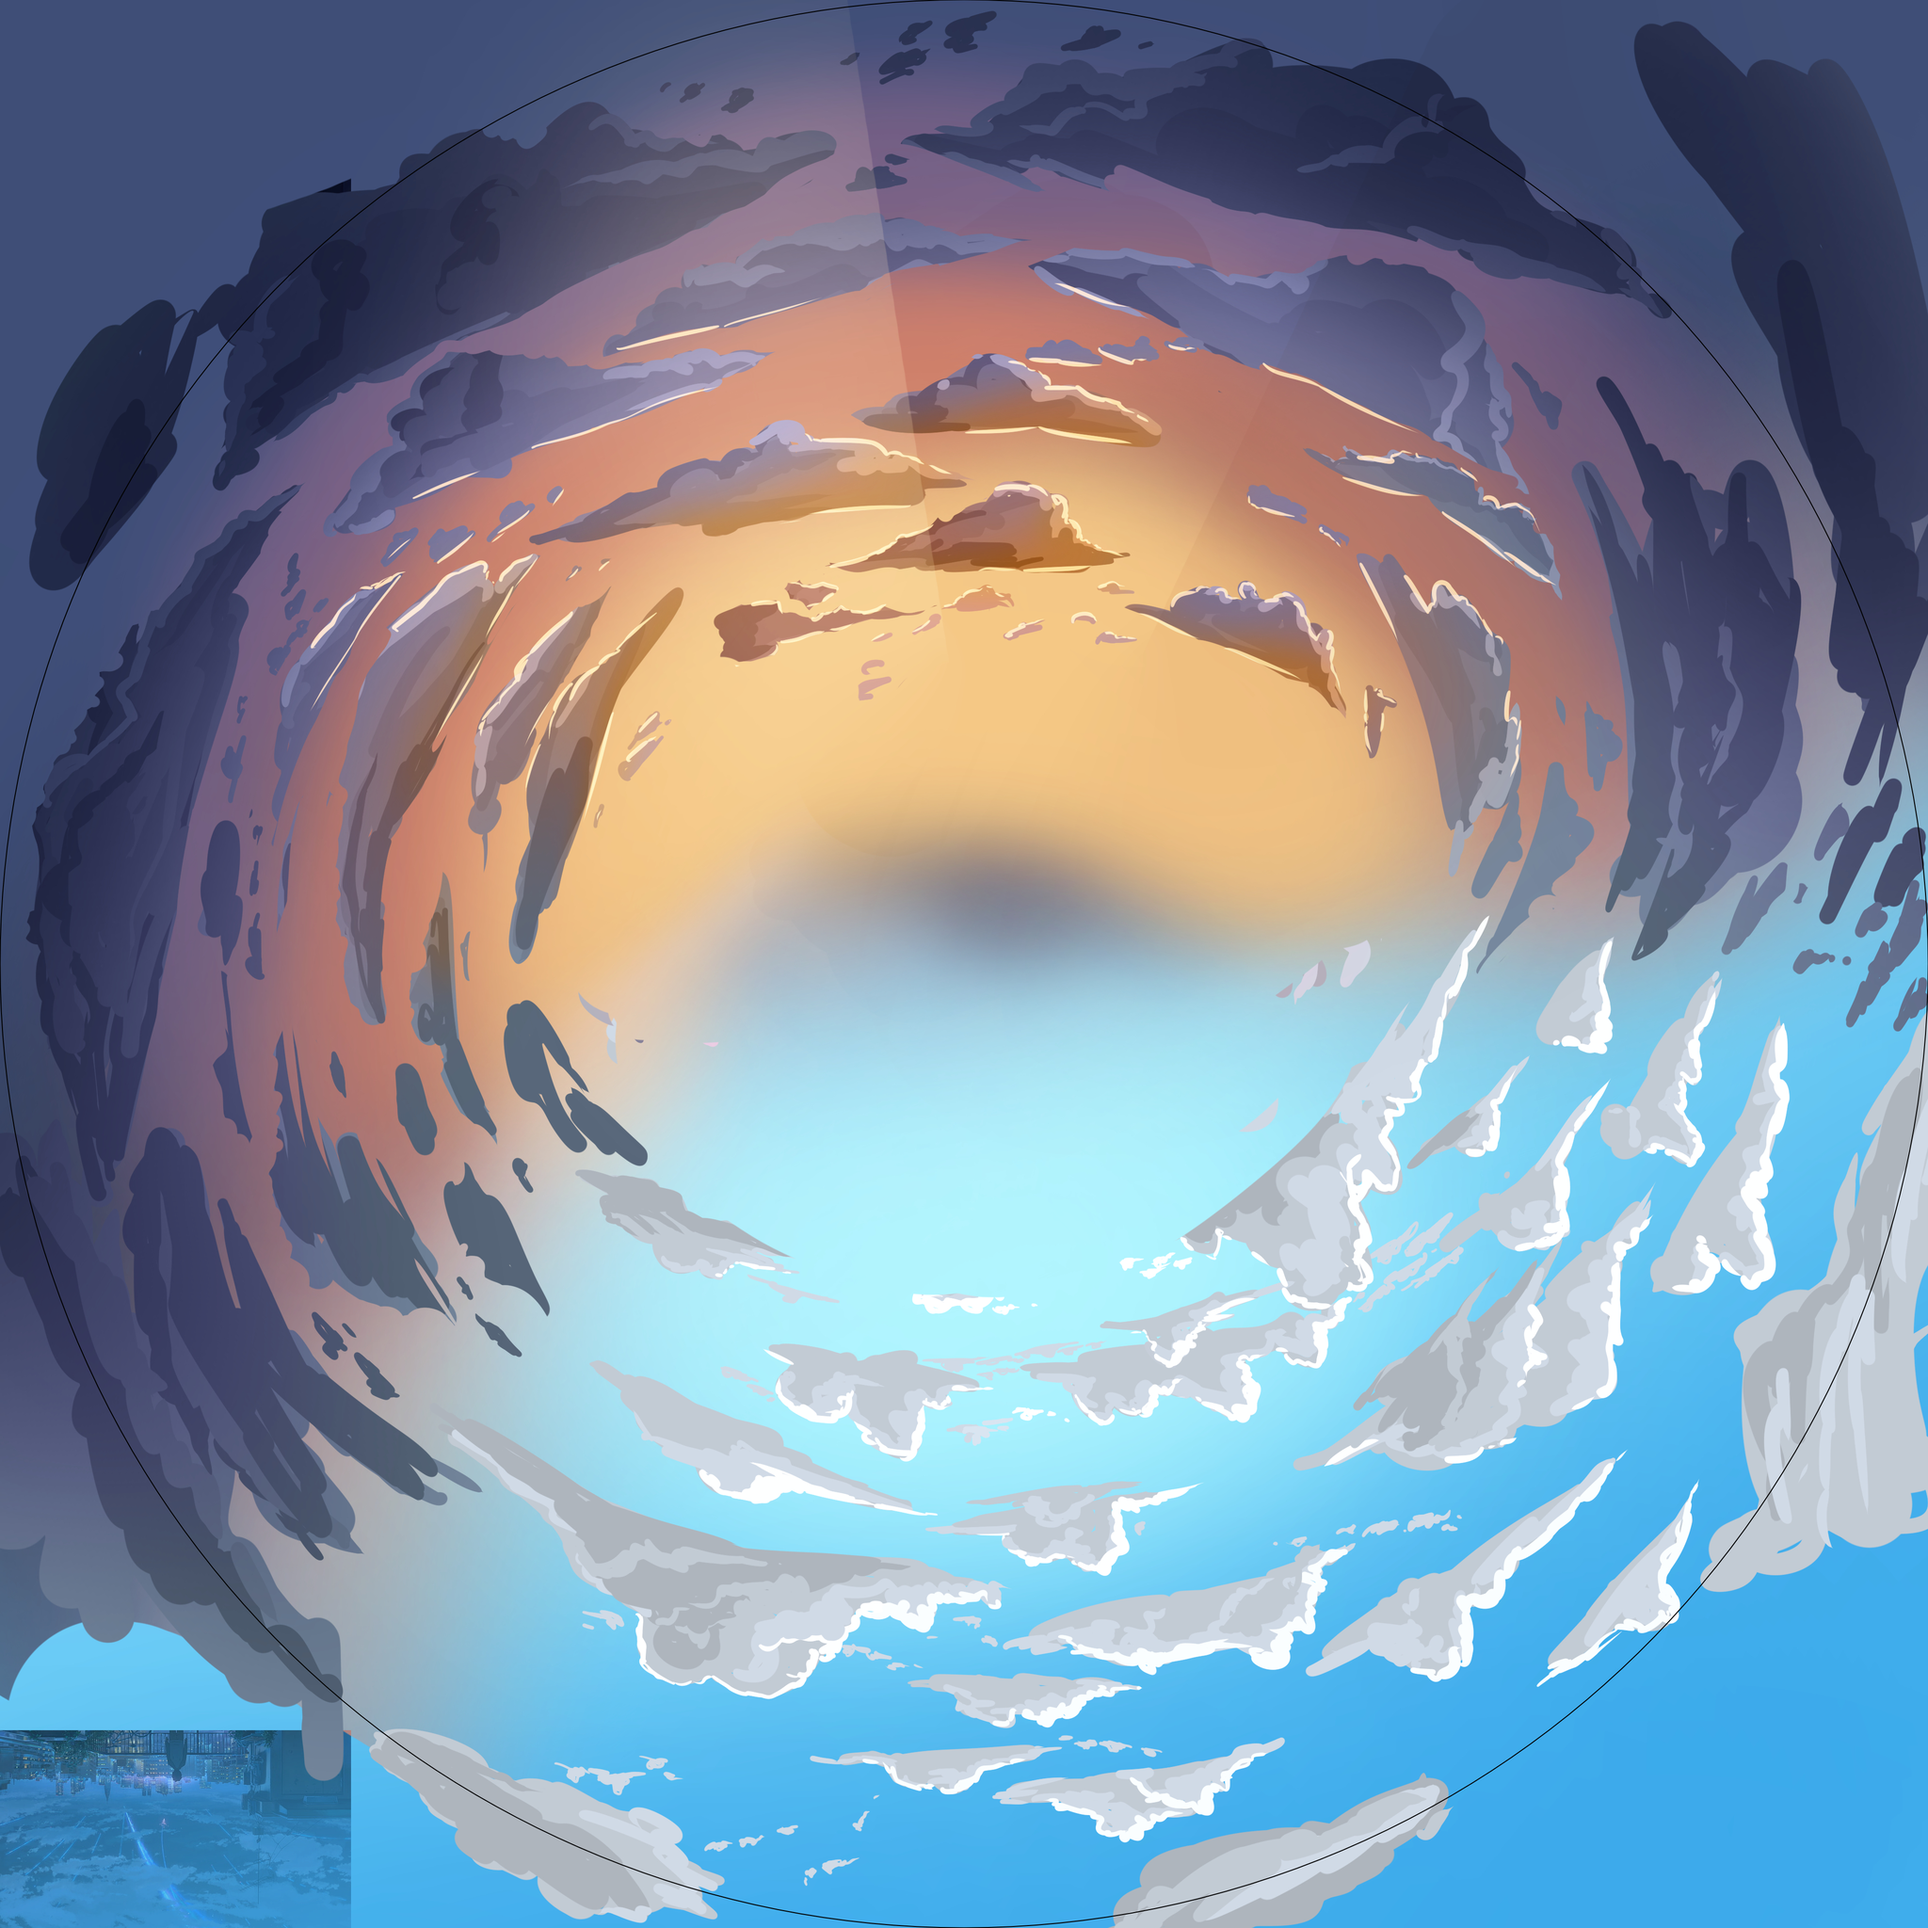
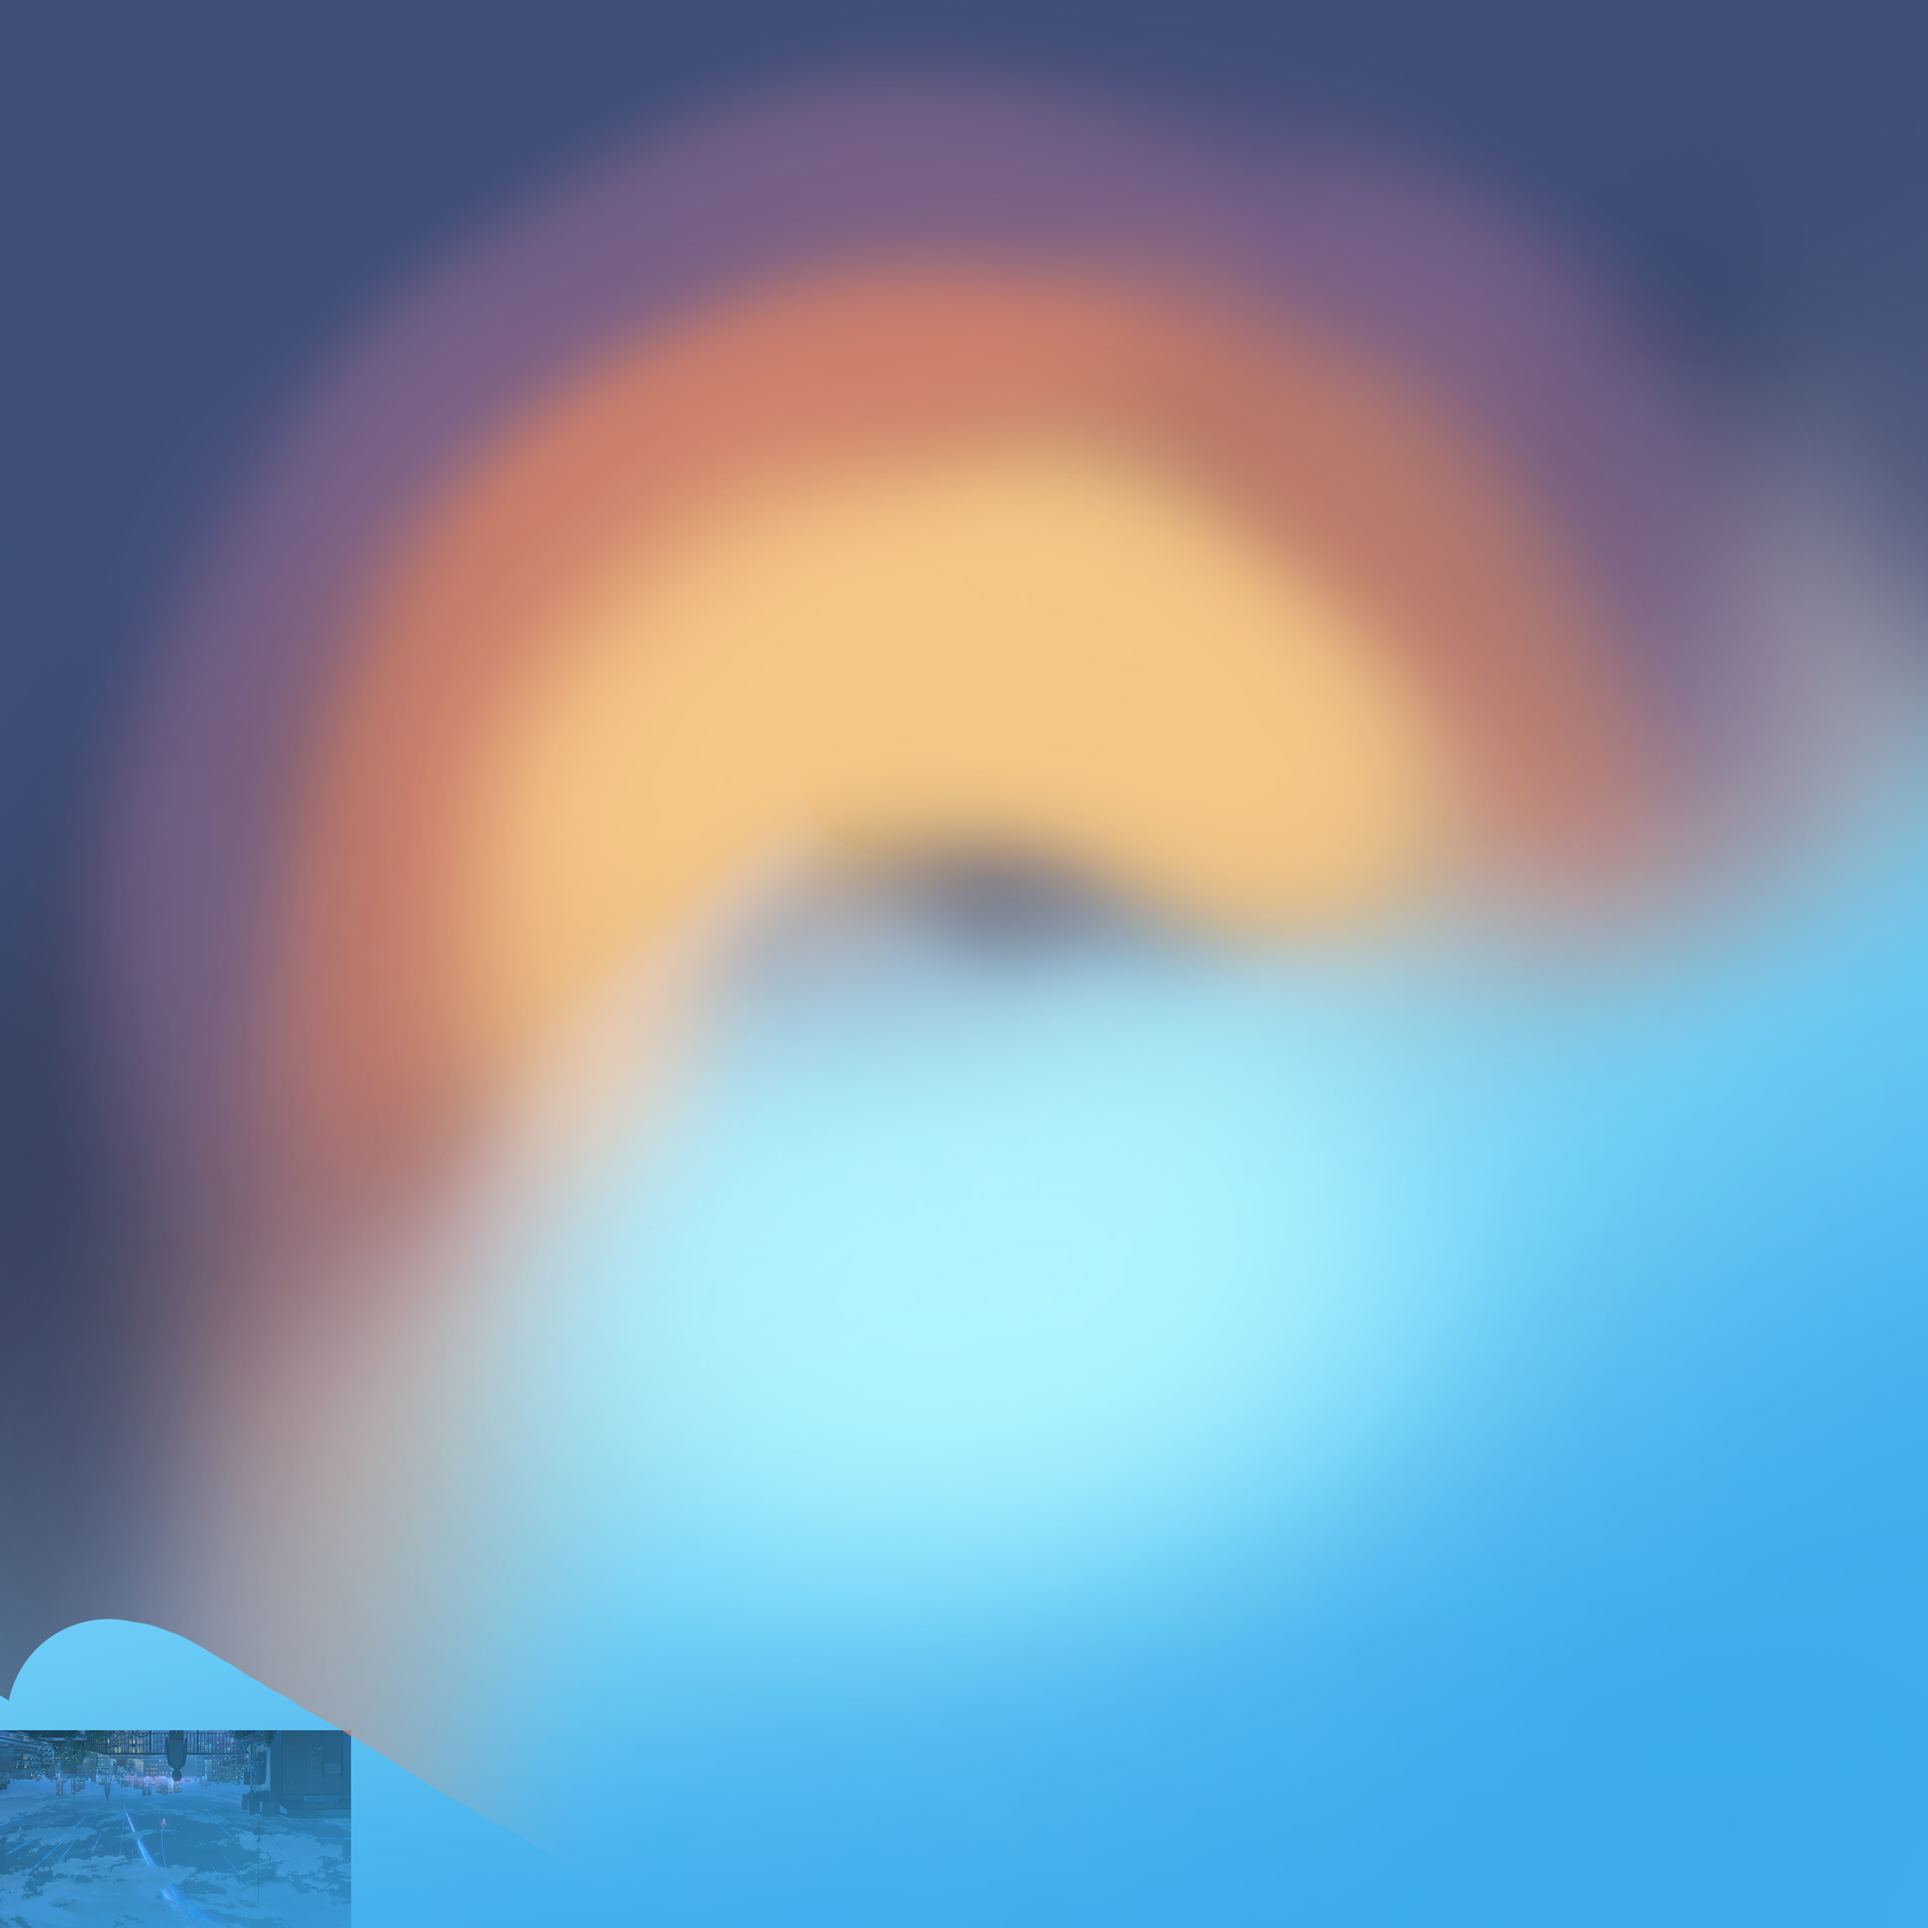
feat(schoolday): split sky art and a cloud layer that rides the sky
The artist's new sky gradient replaces transition_background.png and a
new cloud painting (Sky/cloud_layer.png) replaces the three drifting
SVG clouds. The clouds are fitted to the sky's square and pivot, ride
its angle so the painted sunset and noon clouds stay in register, and
creep slowly on top (CloudDrift.spin_degrees_per_second); each new day
puts them back in register under the full night.

diff --git a/docs/superpowers/DEBT.md b/docs/superpowers/DEBT.md
@@ -46,7 +46,7 @@ eight `BarFill/fill_*` motif tiles, the 2026-09-10 cream-pass assets
 `penjadwalan_card_bg.png` was part of this pass too, but Phase 2 left it
 unreferenced -- see the UI depth pass entry below),
 the 2026-09-24 SchoolDay liveliness set (the sky's `Assets/Images/SchoolDay/Sky/`
-sun, moon, three clouds, star field and rain streak; the avatar rings in
+sun, moon, star field and rain streak -- its clouds are now the artist's final `Sky/cloud_layer.png`, 2026-09-30; the avatar rings in
 `SchoolDay/Avatar/`; the weekday motif tiles in `SchoolDay/Motifs/`; the event
 band's `caution_tape.svg`; and `night_windows.png`, generated from
 `transition_foreground.png` -- regenerate it if that painting changes),
